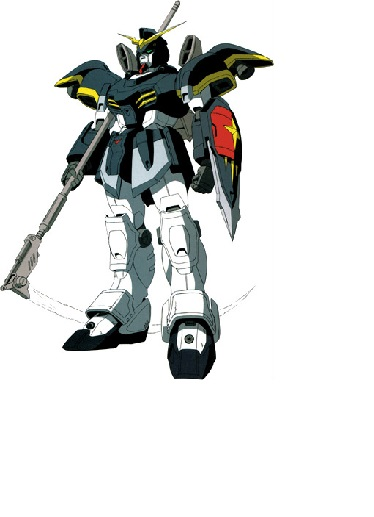
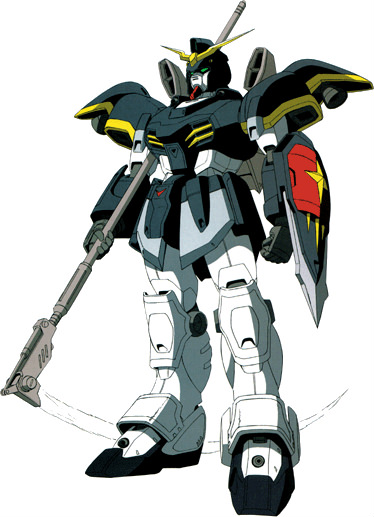
Updates to webpage and images.

diff --git a/WebDev2.0/webStore/index.html b/WebDev2.0/webStore/index.html
@@ -17,22 +17,22 @@
 
 <div class="container text-center">
   <h3> Jon's Gundam Shop </h3>
-  <p> We have all the Gundams! </p>
+  <p><em> We have all the Gundams!</em> </p>
   <br>
   <div class="row">
     <div class="col-sm-4">
       <p><strong>Wing Zero</strong></p><br>
-      <img src="wing.jpg" alt="Wing Zero">
+      <img src="wing.jpg" class="img-circle person1" alt="Wing Zero">
     </div>
 
     <div class="col-sm-4">
-      <p><strong>DeathScythe</strong></p>
-      <img src="deathscythe.jpg" alt="DeathScythe">
+      <p><strong>DeathScythe</strong></p><br>
+      <img src="deathscythe.jpg" class="img-circle person" alt="DeathScythe">
     </div>
 
     <div class="col-sm-4">
-      <p><strong>TallGeese</strong></p>
-        <img  src="tallgeese.jpg" alt="TallGeese">
+      <p><strong>TallGeese</strong></p><br>
+        <img  src="tallgeese.jpg" class="img-circle person" alt="TallGeese">
     </div>
 </div>
 </div>

diff --git a/WebDev2.0/webStore/main.css b/WebDev2.0/webStore/main.css
@@ -1,3 +1,24 @@
 .container {
   padding: 80px 120px;
 }
+
+.person {
+  border: 10px solid transparent;
+  margin-bottom: 25px;
+  width: 83%;
+  height: 83%;
+  opacity: 0.8;
+
+}
+
+.person1 {
+  border: 10px solid transparent;
+  margin-bottom: 25px;
+  width: 100%;
+  height: 100%;
+  opacity: 0.8;
+}
+
+.person:hover {
+  border-color: #f1f1f1;
+}
